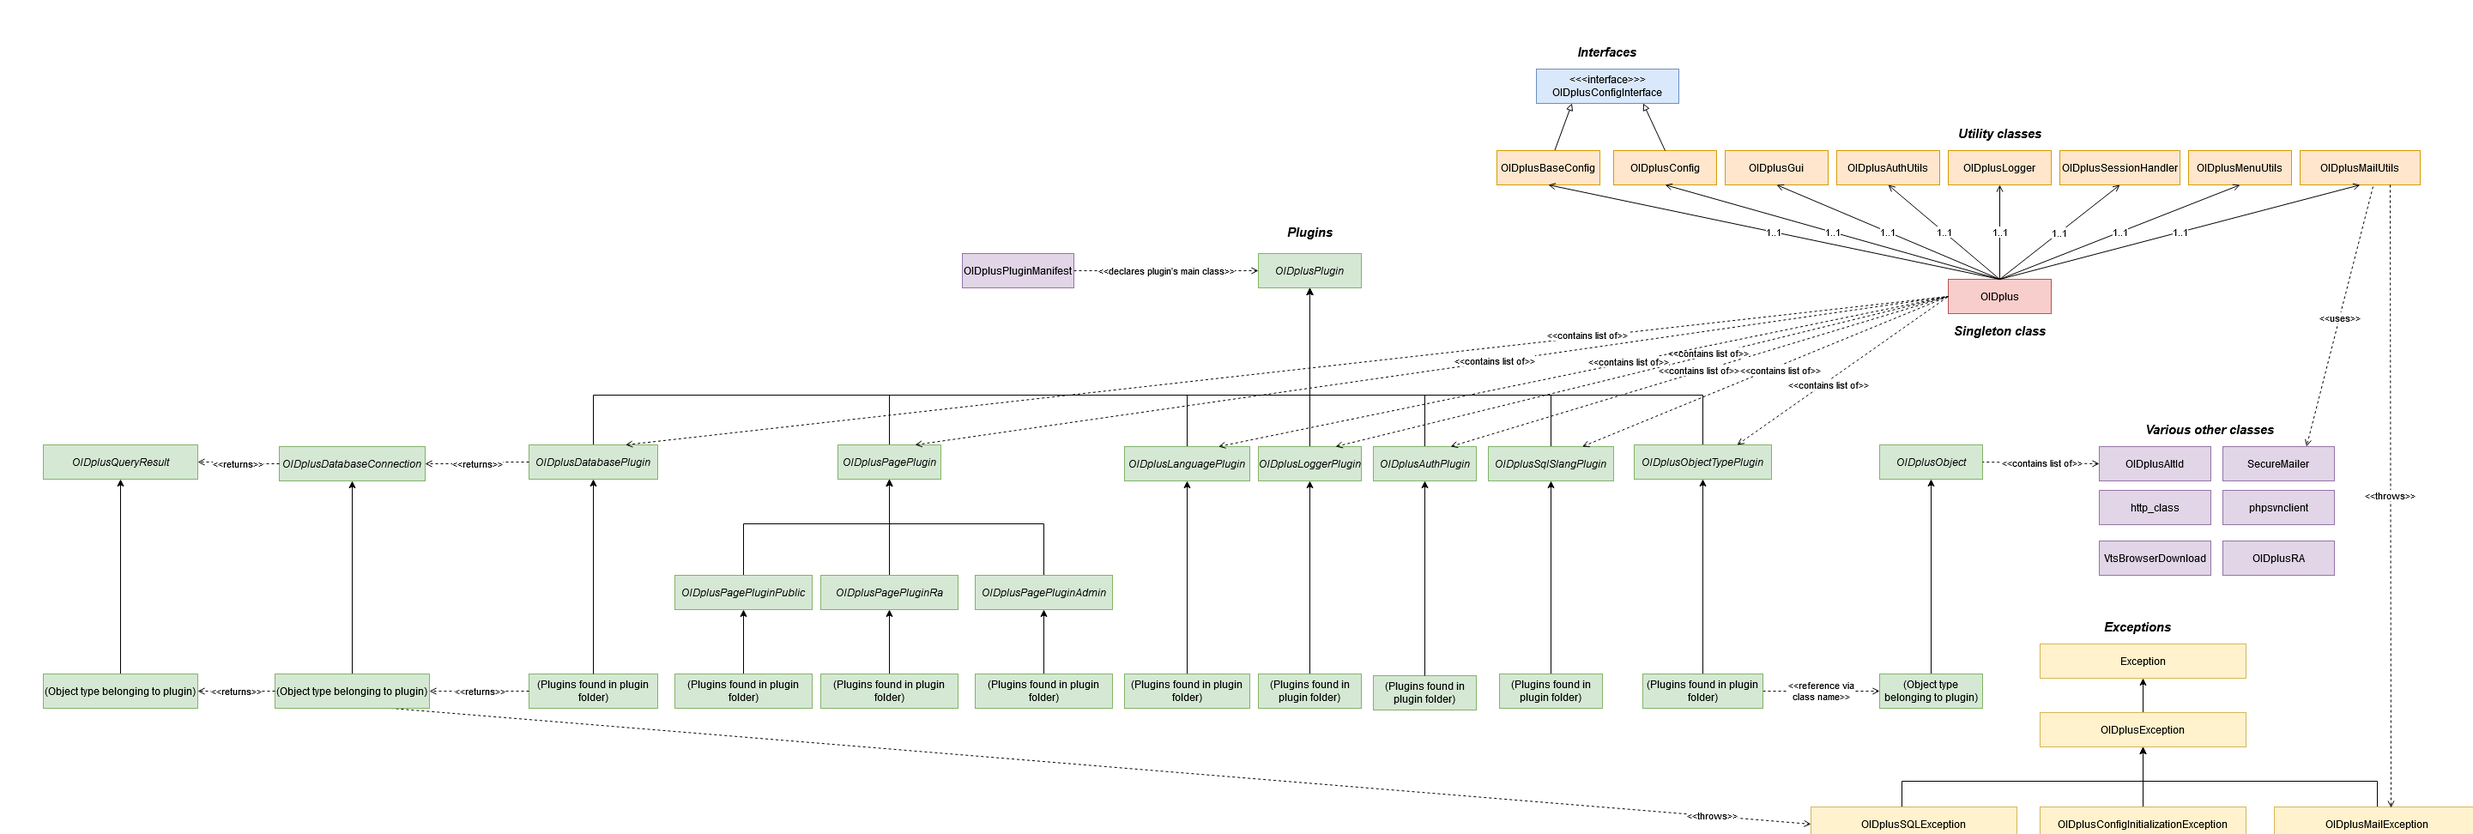
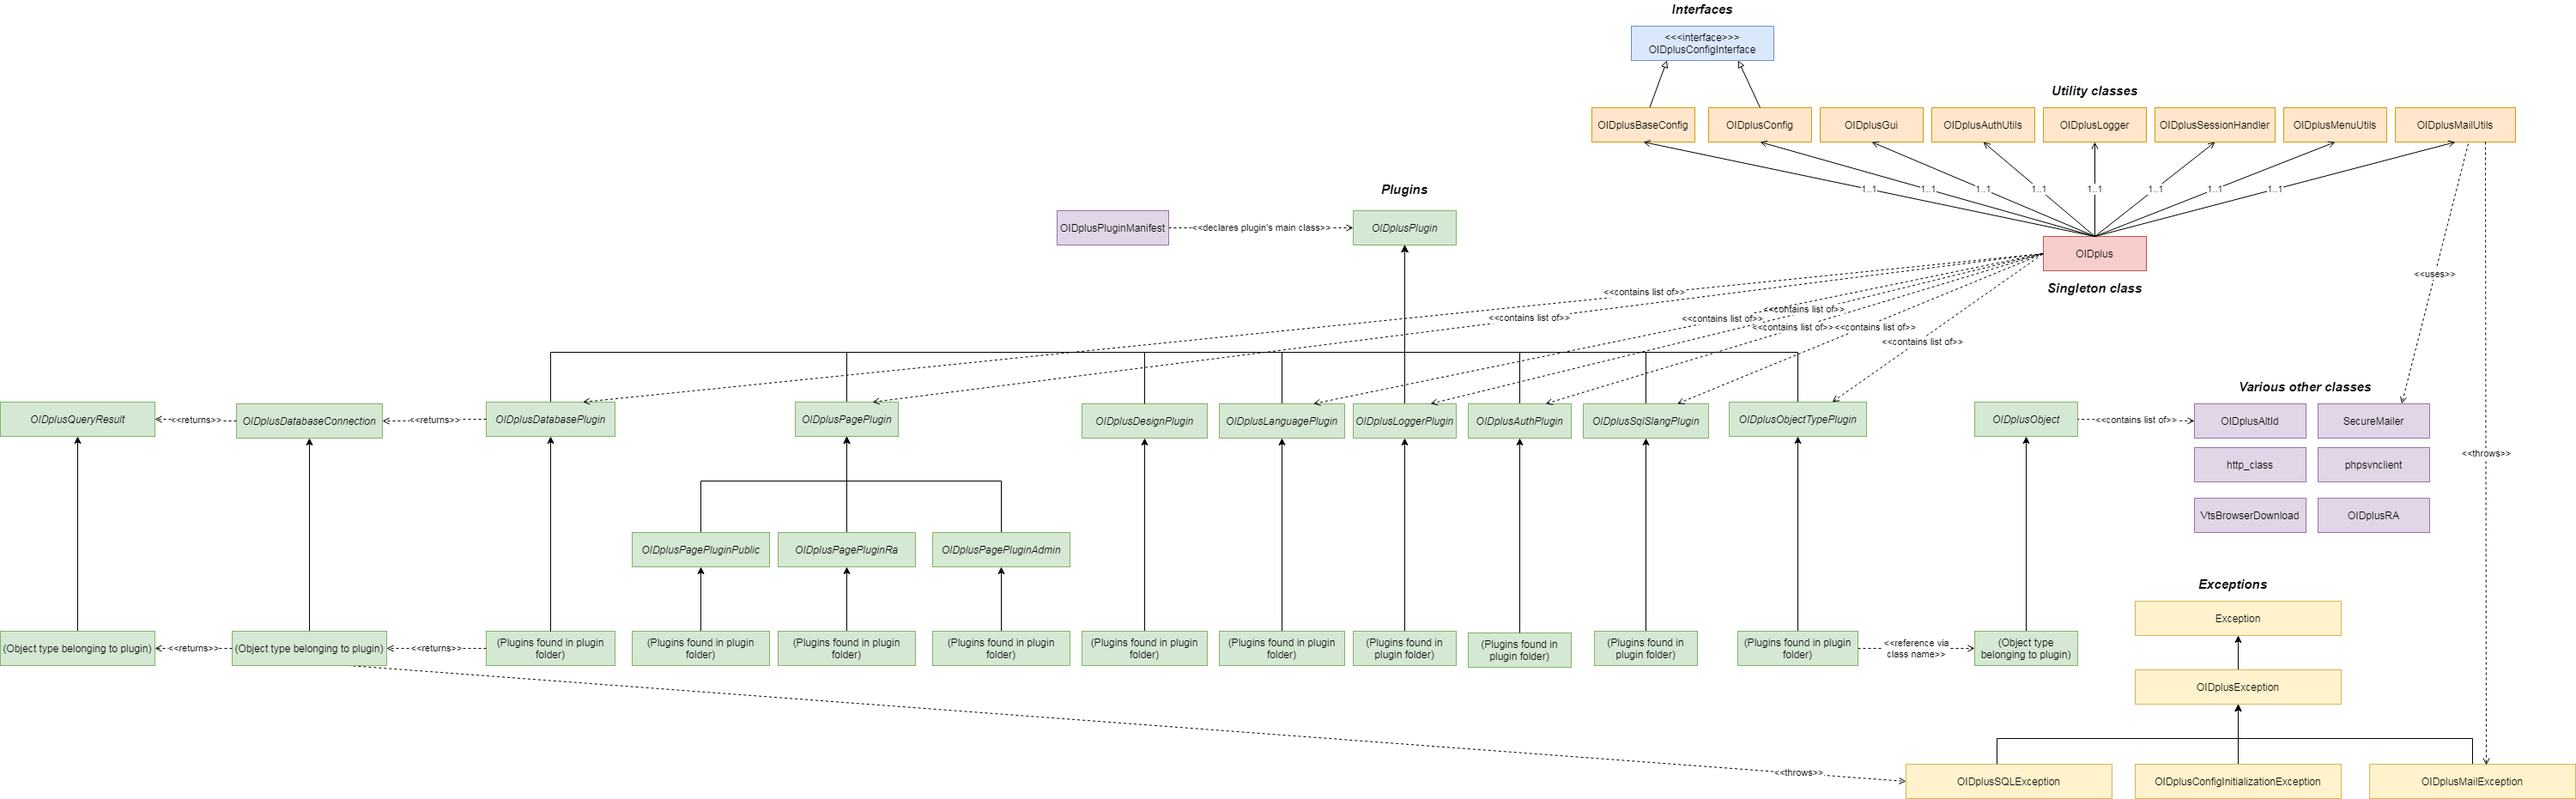
DESIGN Plugin interface is now final (plugin type 1.3.6.1.4.1.37476.2.5.2.4.10)
git-svn-id: https://svn.viathinksoft.com/svn/oidplus/trunk@449 02e4d621-2042-4998-a0bc-9ccd24201011

diff --git a/plugins/adminPages/800_plugins/OIDplusPageAdminPlugins.class.php b/plugins/adminPages/800_plugins/OIDplusPageAdminPlugins.class.php
@@ -60,10 +60,11 @@ class OIDplusPageAdminPlugins extends OIDplusPagePluginAdmin {
 			if (get_parent_class($classname) == 'OIDplusAuthPlugin') $back_link = 'oidplus:system_plugins.auth';
 			if (get_parent_class($classname) == 'OIDplusLoggerPlugin') $back_link = 'oidplus:system_plugins.logger';
 			if (get_parent_class($classname) == 'OIDplusLanguagePlugin') $back_link = 'oidplus:system_plugins.language';
+			if (get_parent_class($classname) == 'OIDplusDesignPlugin') $back_link = 'oidplus:system_plugins.design';
 			$out['text'] = '<p><a '.OIDplus::gui()->link($back_link).'><img src="img/arrow_back.png" width="16" alt="'._L('Go back').'"> '._L('Go back').'</a></p>';
 
 			$out['text'] .= '<div><label class="padding_label">'._L('Class name').'</label><b>'.htmlentities($classname).'</b></div>'.
-					'<div><label class="padding_label">'._L('Location').'</label><b>'.htmlentities(dirname($plugin->getPluginDirectory())).'</b></div>'.
+					'<div><label class="padding_label">'._L('Location').'</label><b>'.htmlentities($plugin->getPluginDirectory()).'</b></div>'.
 					'<div><label class="padding_label">'._L('Plugin type').'</label><b>'.htmlentities(get_parent_class($classname)).'</b></div>'.
 					'<div><label class="padding_label">'._L('Plugin name').'</label><b>'.htmlentities(empty($plugin->getManifest()->getName()) ? _L('n/a') : $plugin->getManifest()->getName()).'</b></div>'.
 					'<div><label class="padding_label">'._L('Plugin author').'</label><b>'.htmlentities(empty($plugin->getManifest()->getAuthor()) ? _L('n/a') : $plugin->getManifest()->getAuthor()).'</b></div>'.
@@ -84,6 +85,8 @@ class OIDplusPageAdminPlugins extends OIDplusPagePluginAdmin {
 			$show_auth = false;
 			$show_logger = false;
 			$show_language = false;
+			$show_design_active = false;
+			$show_design_inactive = false;
 
 			if ($parts[1] == '') {
 				$out['title'] = _L('Installed plugins');
@@ -100,6 +103,8 @@ class OIDplusPageAdminPlugins extends OIDplusPagePluginAdmin {
 				$show_auth = true;
 				$show_logger = true;
 				$show_language = true;
+				$show_design_active = true;
+				$show_design_inactive = true;
 			} else if ($parts[1] == 'pages') {
 				$out['title'] = _L('Page plugins');
 				$out['icon'] = file_exists(__DIR__.'/icon_big.png') ? OIDplus::webpath(__DIR__).'icon_big.png' : '';
@@ -185,6 +190,12 @@ class OIDplusPageAdminPlugins extends OIDplusPagePluginAdmin {
 				$out['icon'] = file_exists(__DIR__.'/icon_big.png') ? OIDplus::webpath(__DIR__).'icon_big.png' : '';
 				$out['text'] = '<p><a '.OIDplus::gui()->link('oidplus:system_plugins').'><img src="img/arrow_back.png" width="16" alt="'._L('Go back').'"> '._L('Go back').'</a></p>';
 				$show_language = true;
+			} else if ($parts[1] == 'design') {
+				$out['title'] = _L('Designs');
+				$out['icon'] = file_exists(__DIR__.'/icon_big.png') ? OIDplus::webpath(__DIR__).'icon_big.png' : '';
+				$out['text'] = '<p><a '.OIDplus::gui()->link('oidplus:system_plugins').'><img src="img/arrow_back.png" width="16" alt="'._L('Go back').'"> '._L('Go back').'</a></p>';
+				$show_design_active = true;
+				$show_design_inactive = true;
 			} else {
 				$out['title'] = _L('Error');
 				$out['icon'] = 'img/error_big.png';
@@ -453,6 +464,38 @@ class OIDplusPageAdminPlugins extends OIDplusPagePluginAdmin {
 					$out['text'] .= '</div></div>';
 				}
 			}
+
+			if ($show_design_active || $show_design_inactive) {
+				if (count($plugins = OIDplus::getDesignPlugins()) > 0) {
+					$out['text'] .= '<h2>'._L('Designs').'</h2>';
+					$out['text'] .= '<div class="container box"><div id="suboid_table" class="table-responsive">';
+					$out['text'] .= '<table class="table table-bordered table-striped">';
+					$out['text'] .= '	<tr>';
+					$out['text'] .= '		<th width="25%">'._L('Class name').'</th>';
+					$out['text'] .= '		<th width="25%">'._L('Plugin name').'</th>';
+					$out['text'] .= '		<th width="25%">'._L('Plugin version').'</th>';
+					$out['text'] .= '		<th width="25%">'._L('Plugin author').'</th>';
+					$out['text'] .= '	</tr>';
+					foreach ($plugins as $plugin) {
+						$active = OIDplus::config()->getValue('design') === basename($plugin->getPluginDirectory());
+						if ($active && !$show_design_active) continue;
+						if (!$active && !$show_design_inactive) continue;
+
+						$out['text'] .= '	<tr>';
+						if ($active) {
+							$out['text'] .= '<td><a '.OIDplus::gui()->link('oidplus:system_plugins$'.get_class($plugin)).'><b>'.htmlentities(get_class($plugin)).'</b> '._L('(active)').'</a></td>';
+						} else {
+							$out['text'] .= '<td><a '.OIDplus::gui()->link('oidplus:system_plugins$'.get_class($plugin)).'>'.htmlentities(get_class($plugin)).'</a></td>';
+						}
+						$out['text'] .= '<td>' . htmlentities(empty($plugin->getManifest()->getName()) ? _L('n/a') : $plugin->getManifest()->getName()) . '</td>';
+						$out['text'] .= '<td>' . htmlentities(empty($plugin->getManifest()->getVersion()) ? _L('n/a') : $plugin->getManifest()->getVersion()) . '</td>';
+						$out['text'] .= '<td>' . htmlentities(empty($plugin->getManifest()->getAuthor()) ? _L('n/a') : $plugin->getManifest()->getAuthor()) . '</td>';
+						$out['text'] .= '	</tr>';
+					}
+					$out['text'] .= '</table>';
+					$out['text'] .= '</div></div>';
+				}
+			}
 		}
 	}
 
@@ -478,6 +521,8 @@ class OIDplusPageAdminPlugins extends OIDplusPagePluginAdmin {
 		$tree_icon_auth = $tree_icon; // TODO
 		$tree_icon_logger = $tree_icon; // TODO
 		$tree_icon_language = $tree_icon; // TODO
+		$tree_icon_design_active = $tree_icon; // TODO
+		$tree_icon_design_inactive = $tree_icon; // TODO
 
 		$pp_public = array();
 		$pp_ra = array();
@@ -614,6 +659,25 @@ class OIDplusPageAdminPlugins extends OIDplusPagePluginAdmin {
 				'text' => $txt,
 			);
 		}
+		$design_plugins = array();
+		foreach (OIDplus::getDesignPlugins() as $plugin) {
+			$txt = (empty($plugin->getManifest()->getName())) ? get_class($plugin) : $plugin->getManifest()->getName();
+
+			$active = OIDplus::config()->getValue('design') === basename($plugin->getPluginDirectory());
+			if ($active) {
+				$design_plugins[] = array(
+					'id' => 'oidplus:system_plugins$'.get_class($plugin),
+					'icon' => $tree_icon_design_active,
+					'text' => $txt,
+				);
+			} else {
+				$design_plugins[] = array(
+					'id' => 'oidplus:system_plugins$'.get_class($plugin),
+					'icon' => $tree_icon_design_inactive,
+					'text' => '<font color="gray">'.$txt.'</font>',
+				);
+			}
+		}
 		$json[] = array(
 			'id' => 'oidplus:system_plugins',
 			'icon' => $tree_icon,
@@ -679,6 +743,12 @@ class OIDplusPageAdminPlugins extends OIDplusPagePluginAdmin {
 					'icon' => $tree_icon,
 					'text' => _L('Languages'),
 					'children' => $language_plugins
+				),
+				array(
+					'id' => 'oidplus:system_plugins.design',
+					'icon' => $tree_icon,
+					'text' => _L('Designs'),
+					'children' => $design_plugins
 				)
 			)
 		);

diff --git a/includes/classes/OIDplus.class.php b/includes/classes/OIDplus.class.php
@@ -27,6 +27,7 @@ class OIDplus {
 	private static /*OIDplusDatabasePlugin[]*/ $dbPlugins = array();
 	private static /*OIDplusSqlSlangPlugin[]*/ $sqlSlangPlugins = array();
 	private static /*OIDplusLanguagePlugin[]*/ $languagePlugins = array();
+	private static /*OIDplusDesignPlugin[]*/ $designPlugins = array();
 
 	protected static $html = true;
 
@@ -260,6 +261,11 @@ class OIDplus {
 		$name = $plugin::id();
 		if ($name === false) return false;
 
+		if (isset(self::$sqlSlangPlugins[$name])) {
+			$plugintype_hf = _L('SQL-Slang');
+			throw new OIDplusException('Multiple %1 plugins use the ID %2', $plugintype_hf, $name);
+		}
+
 		self::$sqlSlangPlugins[$name] = $plugin;
 
 		return true;
@@ -282,6 +288,11 @@ class OIDplus {
 	private static function registerDatabasePlugin(OIDplusDatabasePlugin $plugin) {
 		$name = $plugin::id();
 		if ($name === false) return false;
+
+		if (isset(self::$dbPlugins[$name])) {
+			$plugintype_hf = _L('Database');
+			throw new OIDplusException('Multiple %1 plugins use the ID %2', $plugintype_hf, $name);
+		}
 
 		self::$dbPlugins[$name] = $plugin;
 
@@ -353,6 +364,17 @@ class OIDplus {
 
 	public static function getLanguagePlugins() {
 		return self::$languagePlugins;
+	}
+
+	# --- Design plugin
+
+	private static function registerDesignPlugin(OIDplusDesignPlugin $plugin) {
+		self::$designPlugins[] = $plugin;
+		return true;
+	}
+
+	public static function getDesignPlugins() {
+		return self::$designPlugins;
 	}
 
 	# --- Logger plugin
@@ -489,6 +511,7 @@ class OIDplus {
 		$res = array_merge($res, self::$dbPlugins);
 		$res = array_merge($res, self::$sqlSlangPlugins);
 		$res = array_merge($res, self::$languagePlugins);
+		$res = array_merge($res, self::$designPlugins);
 		return $res;
 	}
 
@@ -649,6 +672,7 @@ class OIDplus {
 		self::$dbPlugins = array();
 		self::$sqlSlangPlugins = array();
 		self::$languagePlugins = array();
+		self::$designPlugins = array();
 		self::$system_id_cache = null;
 		self::$sslAvailableCache = null;
 
@@ -692,6 +716,7 @@ class OIDplus {
 		self::registerAllPlugins('logger', 'OIDplusLoggerPlugin', array('OIDplus','registerLoggerPlugin'));
 		self::registerAllPlugins('objectTypes', 'OIDplusObjectTypePlugin', array('OIDplus','registerObjectTypePlugin'));
 		self::registerAllPlugins('language', 'OIDplusLanguagePlugin', array('OIDplus','registerLanguagePlugin'));
+		self::registerAllPlugins('design', 'OIDplusDesignPlugin', array('OIDplus','registerDesignPlugin'));
 
 		// Initialize non-DB plugins
 
@@ -708,6 +733,9 @@ class OIDplus {
 			$plugin->init($html);
 		}
 		foreach (OIDplus::getLanguagePlugins() as $plugin) {
+			$plugin->init($html);
+		}
+		foreach (OIDplus::getDesignPlugins() as $plugin) {
 			$plugin->init($html);
 		}
 

diff --git a/plugins/design/ironbase/OIDplusDesignPluginIronBase.class.php b/plugins/design/ironbase/OIDplusDesignPluginIronBase.class.php
@@ -1,0 +1,22 @@
+<?php
+
+/*
+ * OIDplus 2.0
+ * Copyright 2020 Daniel Marschall, ViaThinkSoft
+ *
+ * Licensed under the Apache License, Version 2.0 (the "License");
+ * you may not use this file except in compliance with the License.
+ * You may obtain a copy of the License at
+ *
+ *     http://www.apache.org/licenses/LICENSE-2.0
+ *
+ * Unless required by applicable law or agreed to in writing, software
+ * distributed under the License is distributed on an "AS IS" BASIS,
+ * WITHOUT WARRANTIES OR CONDITIONS OF ANY KIND, either express or implied.
+ * See the License for the specific language governing permissions and
+ * limitations under the License.
+ */
+
+class OIDplusDesignPluginIronBase extends OIDplusDesignPlugin {
+
+}

diff --git a/plugins/design/default/OIDplusDesignPluginDefault.class.php b/plugins/design/default/OIDplusDesignPluginDefault.class.php
@@ -1,0 +1,22 @@
+<?php
+
+/*
+ * OIDplus 2.0
+ * Copyright 2020 Daniel Marschall, ViaThinkSoft
+ *
+ * Licensed under the Apache License, Version 2.0 (the "License");
+ * you may not use this file except in compliance with the License.
+ * You may obtain a copy of the License at
+ *
+ *     http://www.apache.org/licenses/LICENSE-2.0
+ *
+ * Unless required by applicable law or agreed to in writing, software
+ * distributed under the License is distributed on an "AS IS" BASIS,
+ * WITHOUT WARRANTIES OR CONDITIONS OF ANY KIND, either express or implied.
+ * See the License for the specific language governing permissions and
+ * limitations under the License.
+ */
+
+class OIDplusDesignPluginDefault extends OIDplusDesignPlugin {
+
+}

diff --git a/includes/classes/OIDplusDesignPlugin.class.php b/includes/classes/OIDplusDesignPlugin.class.php
@@ -1,0 +1,22 @@
+<?php
+
+/*
+ * OIDplus 2.0
+ * Copyright 2019 Daniel Marschall, ViaThinkSoft
+ *
+ * Licensed under the Apache License, Version 2.0 (the "License");
+ * you may not use this file except in compliance with the License.
+ * You may obtain a copy of the License at
+ *
+ *     http://www.apache.org/licenses/LICENSE-2.0
+ *
+ * Unless required by applicable law or agreed to in writing, software
+ * distributed under the License is distributed on an "AS IS" BASIS,
+ * WITHOUT WARRANTIES OR CONDITIONS OF ANY KIND, either express or implied.
+ * See the License for the specific language governing permissions and
+ * limitations under the License.
+ */
+
+abstract class OIDplusDesignPlugin extends OIDplusPlugin {
+
+}
